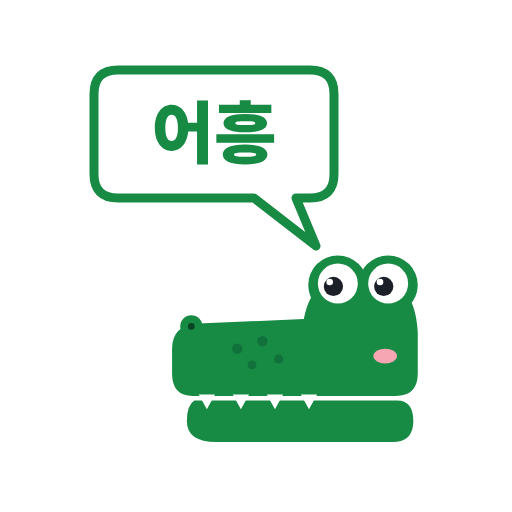
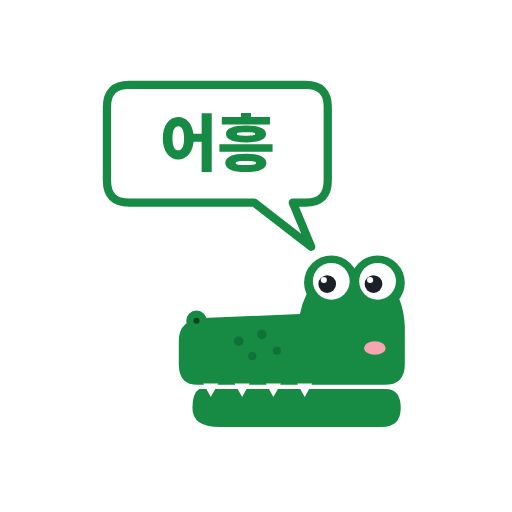
홈 아이콘은 악어만, 시작 화면 아이콘은 악어+어흥
Claude-Session: https://claude.ai/code/session_01RWE3yuQaBDvGzczAaa8CdR

Changed region(s): [[0.1562, 0.125, 0.8438, 0.875]]

diff --git a/index.html b/index.html
@@ -754,7 +754,7 @@ async function copyText(text, fallbackEl){
   catch(e){ if(fallbackEl){ fallbackEl.value=text; fallbackEl.classList.remove('hidden'); fallbackEl.focus(); fallbackEl.select(); } toast('아래 글을 길게 눌러 복사하세요'); return false; }
 }
 function toast(m){ const t=$('#toast'); t.textContent=m; t.style.display='block'; clearTimeout(toast.t); toast.t=setTimeout(()=>t.style.display='none',2600); }
-const APP_VER='v77';
+const APP_VER='v78';
 function renderMore(){
   const n=Object.keys(S.logs).length;
   let last=''; try{ last=localStorage.getItem('setlog.lastBackup')||''; }catch(e){}

diff --git a/sw.js b/sw.js
@@ -1,4 +1,4 @@
-const CACHE = 'setlog-v77';
+const CACHE = 'setlog-v78';
 const CORE = ['./', './index.html', './manifest.webmanifest', './icon-192.png', './icon-512.png', './icon-180.png'];
 self.addEventListener('install', e => {
   e.waitUntil(caches.open(CACHE).then(c => c.addAll(CORE)).then(() => self.skipWaiting()));
